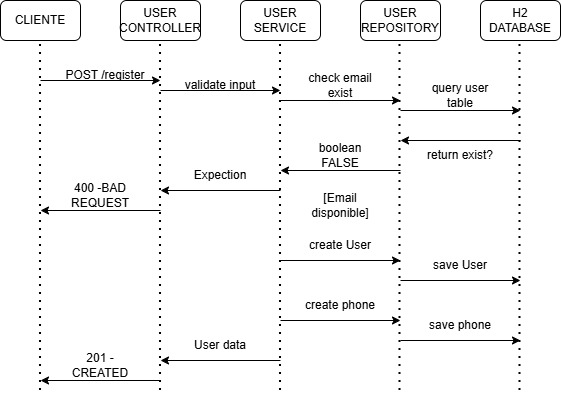
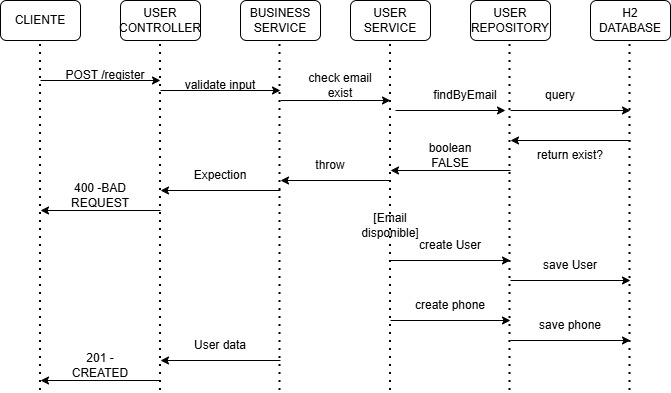
Fixed bug

diff --git a/src/main/java/org/registration/service/BusinessService.java b/src/main/java/org/registration/service/BusinessService.java
@@ -1,19 +1,55 @@
 package org.registration.service;
 
+import org.registration.exception.EmailAlreadyExistsException;
+import org.registration.model.Phone;
+import org.registration.model.User;
 import org.registration.request.RegisterRequest;
 import org.registration.response.CommonResponse;
 import org.springframework.stereotype.Service;
+
+import java.time.LocalDateTime;
 
 @Service
 public class BusinessService {
 
     private final UserService userService;
+    private final JwtService jwtService;
 
-    public BusinessService(UserService userService) {
+    public BusinessService(UserService userService, JwtService jwtService) {
         this.userService = userService;
+        this.jwtService = jwtService;
     }
 
     public CommonResponse registerUser(RegisterRequest registerRequest) {
-        return userService.register(registerRequest);
+        if (userService.findByEmail(registerRequest.email())) {
+            throw new EmailAlreadyExistsException("El correo ya registrado: " + registerRequest.email());
+        }
+
+        User user = User.builder()
+                .name(registerRequest.name())
+                .email(registerRequest.email())
+                .password(registerRequest.password())
+                .created(LocalDateTime.now())
+                .modified(LocalDateTime.now())
+                .lastLogin(LocalDateTime.now())
+                .isActive(true)
+                .token(jwtService.generateToken(registerRequest.email()))
+                .phones(registerRequest.phones().stream()
+                        .map(phoneRequest -> Phone.builder()
+                                .number(phoneRequest.number())
+                                .citycode(phoneRequest.citycode())
+                                .countrycode(phoneRequest.countrycode())
+                                .build())
+                        .toList())
+                .build();
+
+        userService.saveUser(user);
+
+        return new CommonResponse(user.getId(),
+                user.getCreated(),
+                user.getModified(),
+                user.getLastLogin(),
+                user.getToken(),
+                user.getIsActive());
     }
 }

diff --git a/src/main/java/org/registration/service/UserService.java b/src/main/java/org/registration/service/UserService.java
@@ -14,43 +14,18 @@ import java.time.LocalDateTime;
 public class UserService {
 
     private final UserRepository userRepository;
-    private final JwtService jwtService;
 
-    public UserService(UserRepository userRepository, JwtService jwtService) {
+    public UserService(UserRepository userRepository) {
         this.userRepository = userRepository;
-        this.jwtService = jwtService;
     }
 
-    public CommonResponse register(RegisterRequest registerRequest) {
-        if (userRepository.findByEmail(registerRequest.email()).isPresent()) {
-            throw new EmailAlreadyExistsException("El correo ya registrado: " + registerRequest.email());
-        }
-
-        User user = User.builder()
-                .name(registerRequest.name())
-                .email(registerRequest.email())
-                .password(registerRequest.password())
-                .created(LocalDateTime.now())
-                .modified(LocalDateTime.now())
-                .lastLogin(LocalDateTime.now())
-                .isActive(true)
-                .token(jwtService.generateToken(registerRequest.email()))
-                .phones(registerRequest.phones().stream()
-                        .map(phoneRequest -> Phone.builder()
-                                .number(phoneRequest.number())
-                                .citycode(phoneRequest.citycode())
-                                .countrycode(phoneRequest.countrycode())
-                                .build())
-                        .toList())
-                .build();
-
-        userRepository.save(user);
-
-        return new CommonResponse(user.getId(),
-                user.getCreated(),
-                user.getModified(),
-                user.getLastLogin(),
-                user.getToken(),
-                user.getIsActive());
+    public User saveUser(User user) {
+        return userRepository.save(user);
     }
+
+    public Boolean findByEmail(String email) {
+        return userRepository.findByEmail(email).isPresent();
+    }
+
+
 }

diff --git a/src/test/java/org/registration/service/BusinessServiceTest.java b/src/test/java/org/registration/service/BusinessServiceTest.java
@@ -20,7 +20,7 @@ import static org.mockito.ArgumentMatchers.any;
 import static org.mockito.Mockito.*;
 
 @ExtendWith(MockitoExtension.class)
-class UserServiceTest {
+class BusinessServiceTest {
 
     @Mock
     private UserRepository userRepository;
@@ -28,8 +28,11 @@ class UserServiceTest {
     @Mock
     private JwtService jwtService;
 
-    @InjectMocks
+    @Mock
     private UserService userService;
+
+    @InjectMocks
+    private BusinessService businessService;
 
 
     @Test
@@ -41,12 +44,10 @@ class UserServiceTest {
                 List.of(new PhoneRequest("1234567890", "01", "001"))
         );
 
-        when(userRepository.findByEmail(registerRequest.email())).thenReturn(Optional.empty());
+        when(userService.findByEmail(registerRequest.email())).thenReturn(false);
         when(jwtService.generateToken(registerRequest.email())).thenReturn("mock-token");
 
-        CommonResponse response = userService.register(registerRequest);
-
-        verify(userRepository).save(any(User.class));
+        CommonResponse response = businessService.registerUser(registerRequest);
 
         assertNotNull(response);
         assertEquals("mock-token", response.token());
@@ -61,10 +62,10 @@ class UserServiceTest {
                 "password123",
                 List.of(new PhoneRequest("1234567890", "01", "001"))
         );
-        when(userRepository.findByEmail(registerRequest.email())).thenReturn(Optional.of(new User()));
+        when(userService.findByEmail(registerRequest.email())).thenReturn(true);
 
         assertThrows(EmailAlreadyExistsException.class,
-                () -> userService.register(registerRequest));
+                () -> businessService.registerUser(registerRequest));
 
         verify(userRepository, never()).save(any());
     }
